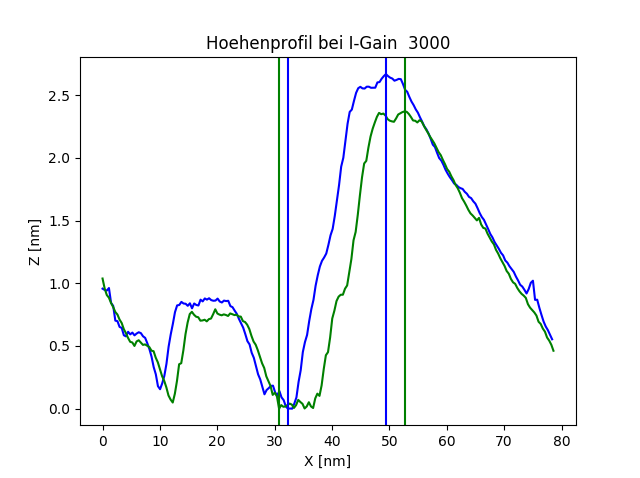
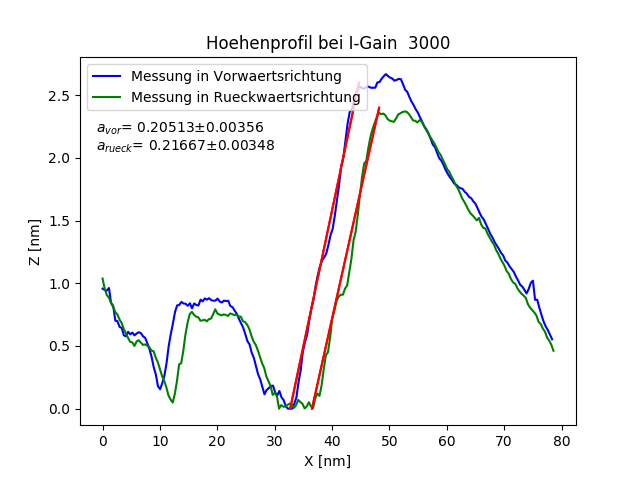
Auswertung Gold fertig

Changed region(s): [[0.125, 0.1172, 0.625, 0.41], [0.4375, 0.5565, 0.5312, 0.8787], [0.5, 0.3808, 0.5625, 0.5858]]

diff --git a/STM/Protokoll/Rastertunnel.tex b/STM/Protokoll/Rastertunnel.tex
@@ -85,31 +85,146 @@ In einer zweiten Messreihe wird erneut ein Bereich mit markanter Struktur vermes
 
 Abbildung \ref{fig:Gold_IGain_Beispiel} zeigt beispielhaft das Bild der z-Komponente nach Bearbeitung für eine Messung aus der Messreihe mit verändertem I-Gain. Der Balken quer im Bild zeigt, wo das im Folgenden untersuchte Höhenprofil entnommen wurde. In den Bildern aus den Ergebnissen der Messreihe wurde das Höhenprofil exakt gleich entnommen (Profillinie kopiert), sodass die Vergleichbarkeit der Profile gegeben ist.\\
 Bei der Aufnahme der Messreihe mit veränderter Zeit wurde ein anderer Bereich verwendet. Daher ist die Profillinie aus einem anderen Bildbereich entnommen, wie in Abbildung \ref{fig:Gold_Zeit_Beispiel} dargestellt ist.\\
-Bei der Entnahme des Höhenprofils wird für jeden Wert der Mittelwert mehrerer Punkte bestimmt.\\
-Beide Messreihen wurden mit mehreren Methoden ausgewertet, die im Folgenden diskutiert werden.
+Bei der Entnahme des Höhenprofils wird für jeden Wert der Mittelwert mehrerer Punkte bestimmt.
 
-\subsubsection{Bestimmung der Extremalpositionen}
-Mit der Bestimmung der Positionen der Extremalstellen aus den Höhenprofilen bieten sich 2 Möglichkeiten zur Auswertung:
-\begin{enumerate}
-\item Die Verschiebung der Extremalstellen der Vorwärtsrichtung gegenüber den gleichen Peaks in der Rückrichtung ist bei zu großem I-Gain oder zu kleiner Zeit pro Linie sehr groß.
-\item Mit den Positionen und Höhen der Extremalstellen kann die Flankensteigung bestimmt werden. Bei zu großem I-Gain oder zu kleiner Zeit pro Linie ist die Steigung zu groß und bei zu kleinem I-Gain zu klein.
-\end{enumerate}
+\subsubsection{Bestimmung der Flankensteigung}
+Zur Bestimmung der Flankensteigung werden die Punkte, die diese Flanke begrenzen, abgelesen.
+Die Flankensteigung berechnet sich dann zu:
 
-Für die Bestimmung der Positionen der Extremalstellen wurde ein Schätzwert aus den Profilen abgelesen und aus einem Bereich um diesen Schätzwert der Maximalwert gesucht. Wenn mehrere Punkte den gleichen (maximalen) Wert haben, wird zwischen diesen gemittelt.
+\begin{equation*}
+a = \dfrac{Z_2 - Z_1}{X_2 - X_1}
+\end{equation*}
+
+Als Fehler auf die Werte wird der Ablesefehler
+
+\begin{equation*}
+\sigma = \dfrac{\SI{0.1}{nm}}{\sqrt{12}}
+\end{equation*}
+
+auf jeden abgelesenen Wert angenommen, sodass sich der Fehler auf die Steigung fortpflanzt zu:
+
+\begin{equation*}
+\sigma _a = \sqrt{2 \cdot \left( \dfrac{\sigma}{X_2 - X_1} \right) ^2 + 2 \cdot \left( \sigma \cdot  \dfrac{Z_2 - Z_1}{(X_2 - X_1)^2} \right) ^2}
+\end{equation*}
+
+
+\subsubsection{Untersuchung der Auswirkungen des I-Gain}
+
+\begin{table}
+\centering
+\begin{tabular}{|c|c|c|}
+\hline 
+IGain & Peakpositionen in Vorwärtsrichtung [nm] & Peakpositionen in Rückwärtsrichtung [nm] \\ 
+\hline 
+1000 & (23.4, 0.0), (50.1, 3.4) & (27.5, 0.0), (44.7, 2.9) \\
+\hline 
+3000 & (36.5, 0.0), (48.2, 2.4) & (32.7, 0.0), (44.7, 2.6) \\ 
+\hline 
+8000 & (31.5, 0.0), (45.9, 4.4) & (28.0, 0.1), (44.0, 3.5) \\
+\hline 
+11000 & (30.8, 0.0), (48.6, 8.3) & (30.8, 0.0), (41.4, 9.4) \\
+\hline 
+\end{tabular} 
+\caption{Abgelesene Werte für die Begrenzungen der Flanken in der Messreihe zur Variation des I-Gain.}
+\label{tab:Peaks_IGain}
+\end{table}
 
 \begin{figure}
 \centering
 \includegraphics[scale=0.8]{Bilder/Profil_IGain_3000_Peakbestimmung.png}
-\caption{Höhenprofil bei einem I-Gain von 3000 mit den durch senkrechte Linien markierten Extremalstellen. Das grüne Profil und entspricht der Vorwärts- und das blaue der Rückwärtsrichtung.}
-\label{fig:Gold_IGain_Extremalstellen}
+\caption{Höhenprofil bei einem I-Gain von 3000. Die roten Linien markieren die abgelesenen Flanken.}
+\label{fig:Gold_IGain_Flankensteigung}
 \end{figure}
 
-\paragraph{Verschiebung der Extremalstellen}
-Zur Bestimmung der Verschiebung der Extremalstellen wird einfach der Betrag der Abstände aufsummiert:
-\begin{equation*}
-\Sigma = \sum _{i = 0} ^n \, |x_i^{vor} - x_i^{rueck}|
-\end{equation*}
+Tabelle \ref{tab:Peaks_IGain} zeigt alle abgelesenen Werte für diese Punkte in der Messreihe zum I-Gain. Abbildung \ref{fig:Gold_IGain_Flankensteigung} zeigt beispielhaft die gemessenen Höhenprofile und die abgelesenen Flanken bei einem IGain von 3000. 
 
+\begin{table}
+\centering
+\begin{tabular}{|c|c|c|c|}
+\hline 
+IGain & $a_{vor}$ & $a_{rueck}$ & $\dfrac{|a_{vor} - a_{rueck}|}{\sqrt{\sigma _{a_{vor}}^2 + \sigma _{a_{rueck}}^2}}$ \\ 
+\hline 
+1000 & 0,1273 $\pm$ 0,0015 & 0,1686 $\pm$ 0,0024 & 14,44 \\
+\hline 
+3000 & 0,2051 $\pm$ 0,0036 & 0,2167 $\pm$ 0,0035 & 2,32 \\ 
+\hline 
+8000 & 0,3056 $\pm$ 0,0030 & 0,2125 $\pm$ 0,0026 & 23,57 \\
+\hline 
+11000 & 0,4663 $\pm$ 0,0025 & 0,8868 $\pm$ 0,0051 & 73,31 \\
+\hline 
+\end{tabular} 
+\caption{Berechnete Flankensteigungen und die Abweichung zwischen der Steigung aus der Messung in Vorwärts- und der in Rückwärtsrichtung für die Messreihe mit variiertem I-Gain.}
+\label{tab:Steigungen_IGain}
+\end{table}
+
+Tabelle \ref{tab:Steigungen_IGain} zeigt die Ergebnisse für die Flankensteigungen. Die Abweichungen zwischen den Steigungen aus der Messung in Vorwärts- und der in Rückwärtsrichtung zeigen, dass bei einer Messzeit von \SI{200}{ms} ein I-Gain von 3000 die besten Ergebnisse liefert.
+
+\subsubsection{Untersuchung der Auswirkungen der Zeit}
+
+\begin{table}
+\centering
+\begin{tabular}{|c|c|c|}
+\hline 
+Zeit [ms] & Peakpositionen in Vorwärtsrichtung [nm] & Peakpositionen in Rückwärtsrichtung [nm] \\ 
+\hline 
+52 & (33.0, 0.0), (51.1, 3.5) & (28.5, 0.0), (45.3, 3.4) \\
+\hline 
+80 & (22.2, 0.0), (54.8, 3.6) & (20.2, 0.0), (46.0, 3.5) \\ 
+\hline 
+100 & (38.6, 0.0), (54.2, 3.4) & (35.2, 0.0), (50.9, 3.7) \\
+\hline 
+200 & (18.7, 0.0), (53.8, 4.2) & (15.5, 0.0), (48.4, 4.2) \\
+\hline 
+400 & (36.5, 0.0), (53.1, 3.1) & (33.6, 0.0), (50.7, 3.5) \\
+\hline 
+600 & (27.6, 0.0), (52.7, 3.4) & (24.6, 0.0), (48.6, 3.3) \\
+\hline 
+2000 & (43.6, 0.0), (62.8, 3.1) & (38.8, 0.0), (57.0, 2.7) \\
+\hline 
+\end{tabular} 
+\caption{Abgelesene Werte für die Begrenzungen der Flanken in der Messreihe zur Variation der Zeit.}
+\label{tab:Peaks_Zeit}
+\end{table}
+
+\begin{figure}
+\centering
+\includegraphics[scale=0.8]{Bilder/Profil_Zeit_80_Peakbestimmung.png}
+\caption{Höhenprofil bei einer Messzeit von \SI{80}{ms}. Die roten Linien markieren die abgelesenen Flanken.}
+\label{fig:Gold_Zeit_Flankensteigung}
+\end{figure}
+
+Tabelle \ref{tab:Peaks_Zeit} zeigt alle abgelesenen Werte für diese Punkte in der Messreihe zum I-Gain. Abbildung \ref{fig:Gold_Zeit_Flankensteigung} zeigt beispielhaft die gemessenen Höhenprofile und die abgelesenen Flanken bei einer Messzeit von \SI{80}{ms}.
+
+\begin{table}
+\centering
+\begin{tabular}{|c|c|c|c|}
+\hline 
+Zeit [ms] & $a_{vor}$ & $a_{rueck}$ & $\dfrac{|a_{vor} - a_{rueck}|}{\sqrt{\sigma _{a_{vor}}^2 + \sigma _{a_{rueck}}^2}}$ \\ 
+\hline 
+52 & 0,1934 $\pm$ 0,0023 & 0,2024 $\pm$ 0,0025 & 2,67 \\
+\hline 
+80 & 0,1104 $\pm$ 0,0013 & 0,1357 $\pm$ 0,0016 & 12,40 \\ 
+\hline 
+100 & 0,2179 $\pm$ 0,0027 & 0,2357 $\pm$ 0,0027 & 4,68 \\
+\hline 
+200 & 0,1197 $\pm$ 0,0012 & 0,1277 $\pm$ 0,0013 & 4,67 \\
+\hline 
+400 & 0,1867 $\pm$ 0,0025 & 0,2047 $\pm$ 0,0024 & 5,13 \\
+\hline 
+600 & 0,1355 $\pm$ 0,0016 & 0,1375 $\pm$ 0,0017 & 0,86 \\
+\hline 
+2000 & 0,1615 $\pm$ 0,0022 & 0,1484 $\pm$ 0,0023 & 4,19 \\
+\hline 
+\end{tabular} 
+\caption{Berechnete Flankensteigungen und die Abweichung zwischen der Steigung aus der Messung in Vorwärts- und der in Rückwärtsrichtung für die Messreihe mit variierter Zeit pro Zeile.}
+\label{tab:Steigungen_Zeit}
+\end{table}
+
+Tabelle \ref{tab:Steigungen_Zeit} zeigt die Ergebnisse für die Flankensteigungen. Die Abweichungen zwischen den Steigungen aus der Messung in Vorwärts- und der in Rückwärtsrichtung zeigen, dass bei einem I-Gain von 3000 eine Messzeit pro Zeile von \SI{600}{ms} die besten Ergebnisse liefert.
+
+\subsubsection{Zusammenfassung}
+Mit steigendem I-Gain werden die gemessenen Flankensteigungen größer. Dabei liegt der ideale I-Gain in einem mittleren Bereich, wo die gemessenen Flankensteigungen aus der Vorwärts- und der Rückwärtsrichtung nahe zusammenrücken. \\
+Bei der zweiten Messreihe mit Variation der Messzeit pro Zeile hat sich herausgestellt, dass bei einem I-Gain von 3000 und einer Messzeit von \SI{600}{ms} die Flankensteigungen aus der Vorwärts- und der Rückwärtsrichtung innerhalb einer Standardabweichung übereinstimmen.
 
 \subsection{Untersuchung von HOPG}
 
